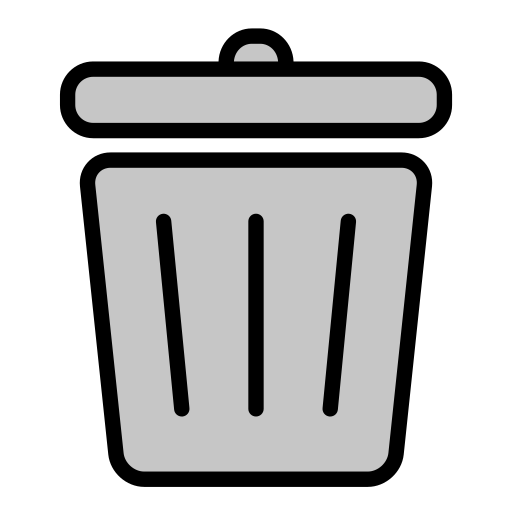
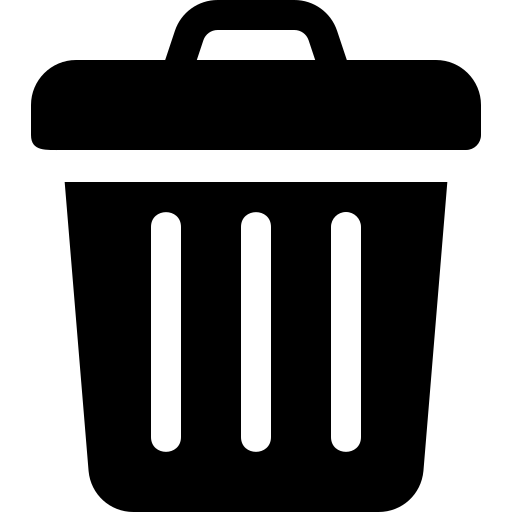
Delete button updated

diff --git a/src/view/Bicicletas/bicicletas.js b/src/view/Bicicletas/bicicletas.js
@@ -124,22 +124,22 @@ async function receberBicicletas() {
                 estacao.appendChild(iconeEstacao);
                 estacao.appendChild(textoEstacao);
                 conteudo.appendChild(estacao);
+
+                if(window.ehADM){
+                    const botao = document.createElement("button");
+                    botao.id="button-trash"
+                    const imagemBotao = document.createElement("img");
+                    imagemBotao.src = "../assets/trash.png";
+                    imagemBotao.id = "trash";
+                    botao.appendChild(imagemBotao);
+                    botao.onclick=criadorDeletar(dados.message[i].id);
+                    estacao.appendChild(botao);
+                }
             }
             else{
                 const indisponivel = document.createElement("p");
                 indisponivel.textContent = "Indisponível";
                 conteudo.appendChild(indisponivel);
-            }
-
-            if(window.ehADM){
-                const botao = document.createElement("button");
-                botao.id="button-trash"
-                const imagemBotao = document.createElement("img");
-                imagemBotao.src = "../assets/trash.png";
-                imagemBotao.id = "trash";
-                botao.appendChild(imagemBotao);
-                botao.onclick=criadorDeletar(dados.message[i].id);
-                conteudo.appendChild(botao);
             }
 
             card.appendChild(conteudo);

diff --git a/src/view/Bicicletas/style/bicicletas.scss b/src/view/Bicicletas/style/bicicletas.scss
@@ -148,6 +148,16 @@ body {
                         height: 24px;
                         margin-right: 5px;
                     }
+
+                    #button-trash {
+                        @include flexCenter(row);
+                        justify-content: flex-end;
+                        width: 50%;
+                        background-color: rgba(255, 255, 255, 0);
+                        border: 0px;
+                        position: absolute;
+                        right: 4%;
+                    }
                 }
             }
         }

diff --git a/src/view/Bicicletas/style/bicicletas.css b/src/view/Bicicletas/style/bicicletas.css
@@ -157,6 +157,18 @@ body {
   height: 24px;
   margin-right: 5px;
 }
+#cellphone #listaBicicletas .card .card-content .card-station #button-trash {
+  display: flex;
+  align-items: center;
+  justify-content: center;
+  flex-direction: row;
+  justify-content: flex-end;
+  width: 50%;
+  background-color: rgba(255, 255, 255, 0);
+  border: 0px;
+  position: absolute;
+  right: 4%;
+}
 #cellphone #navbar {
   position: fixed;
   bottom: 0;
